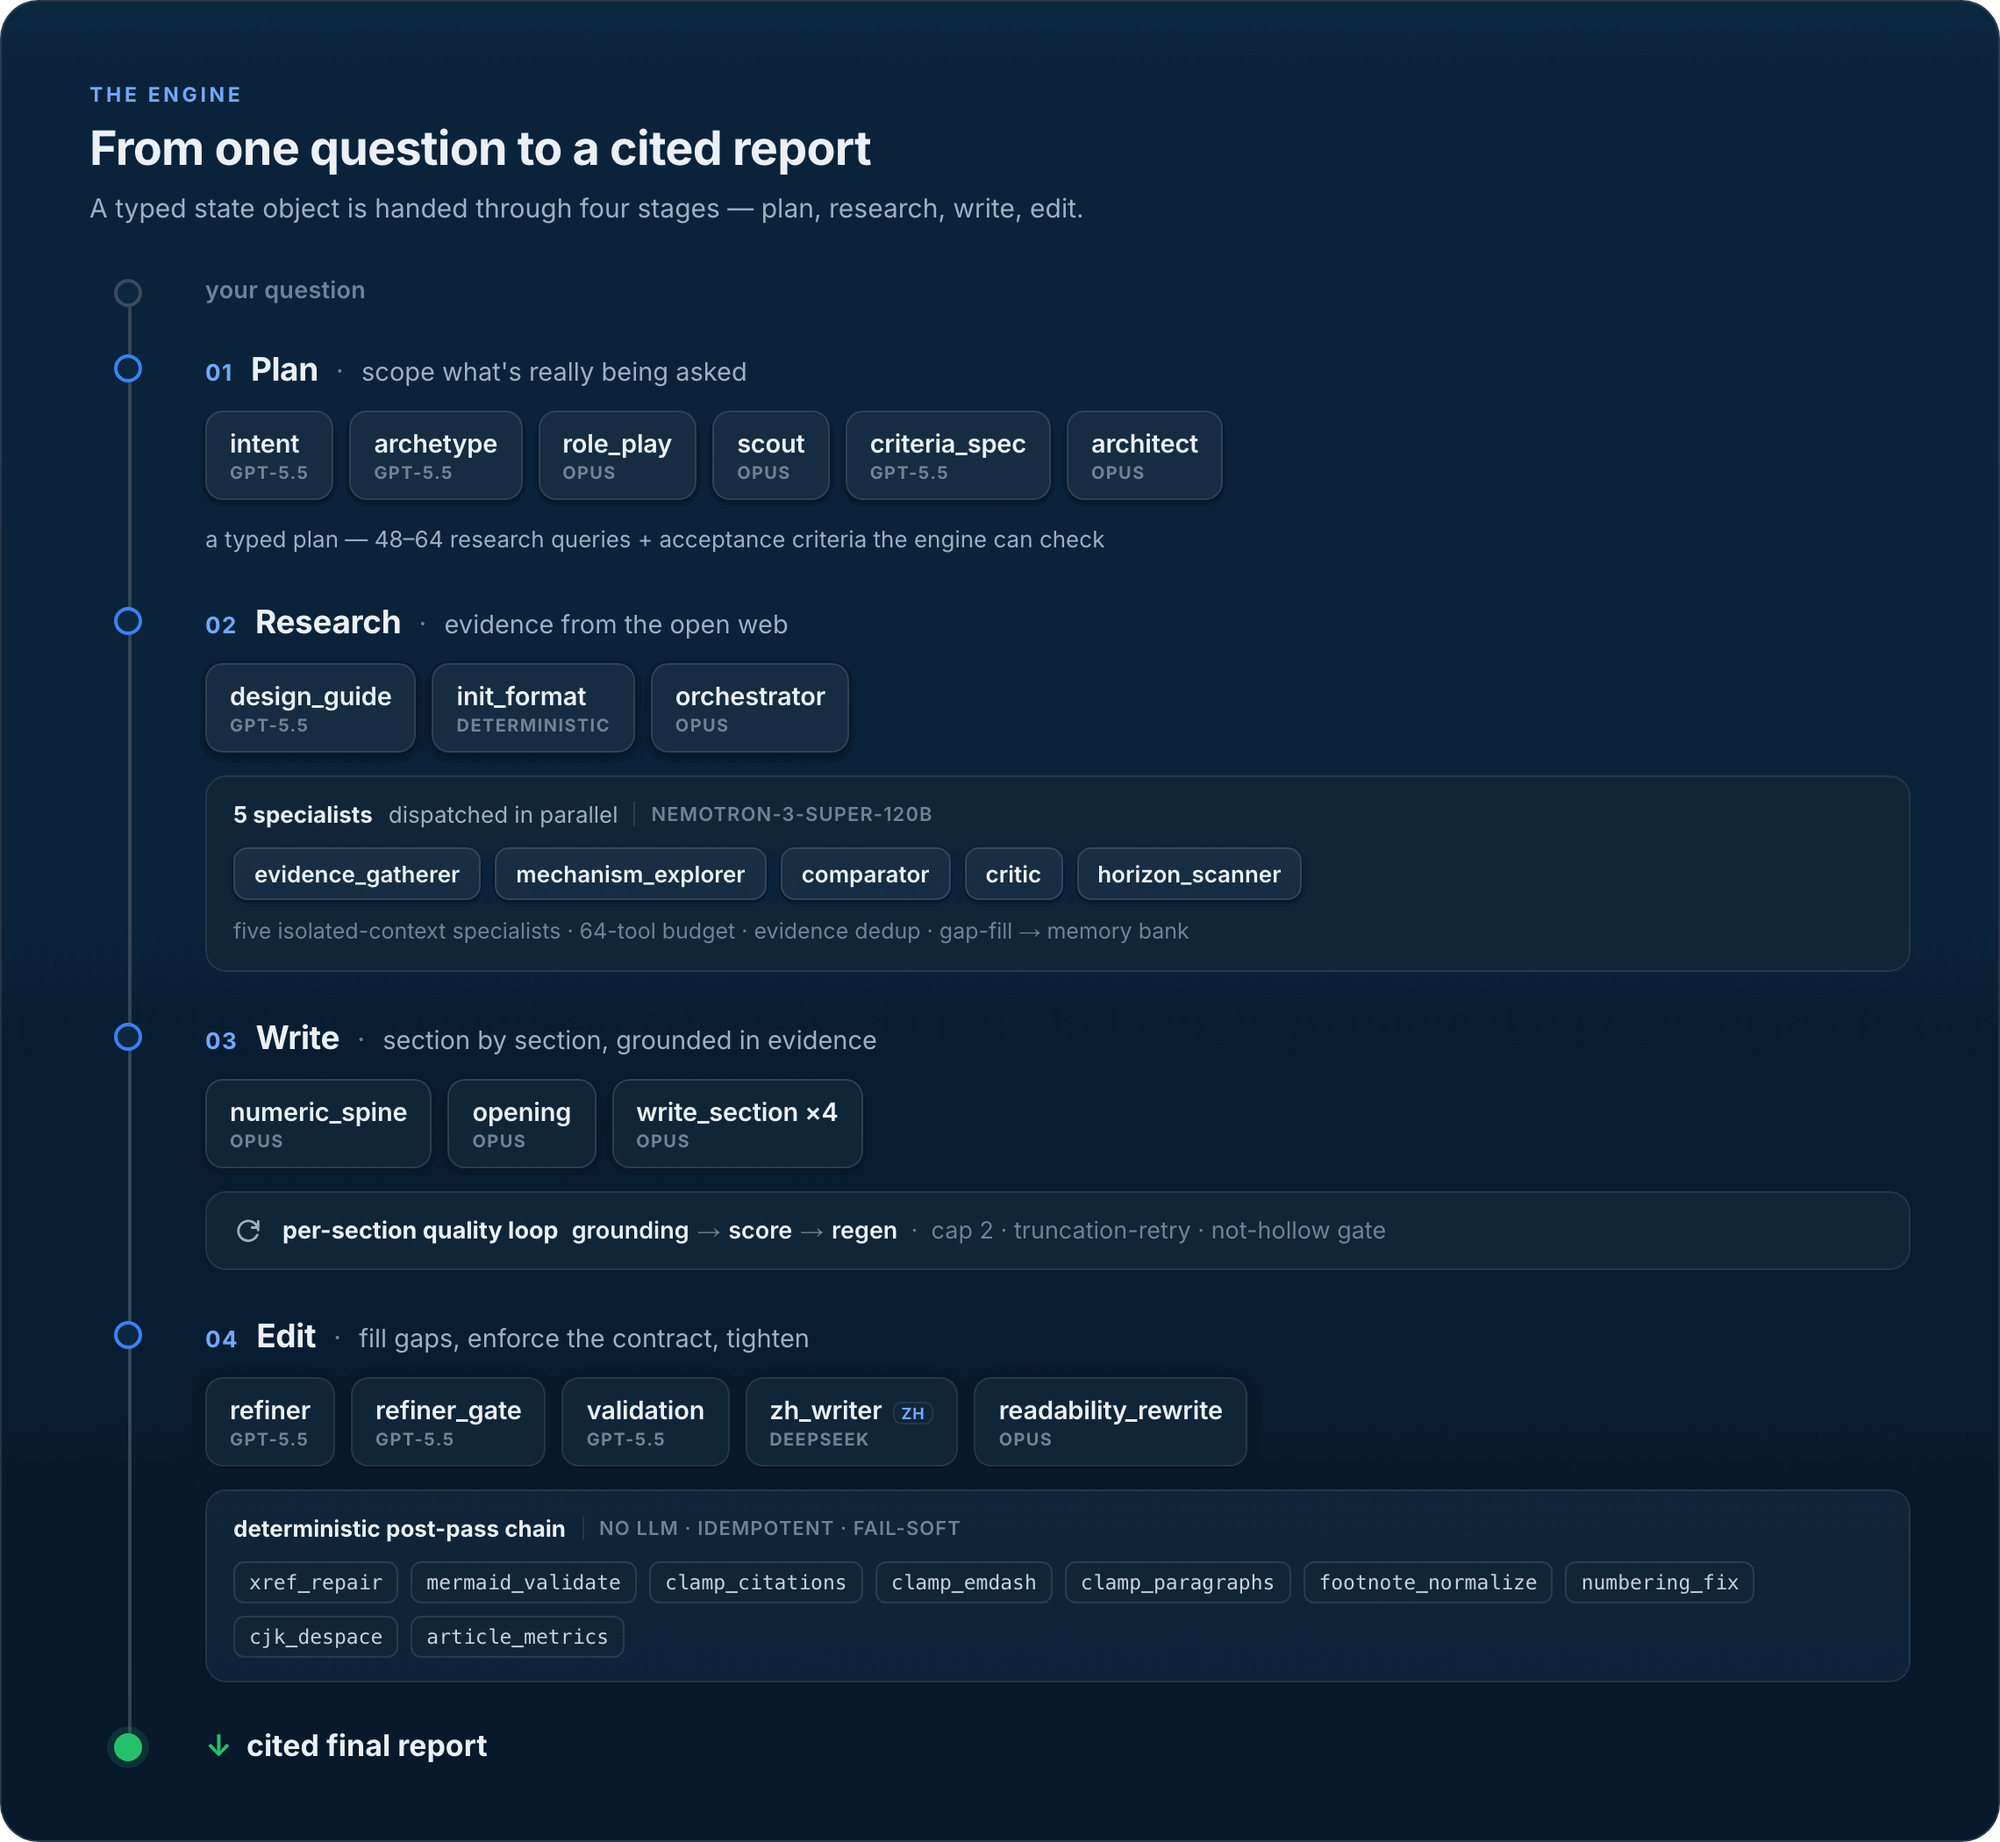
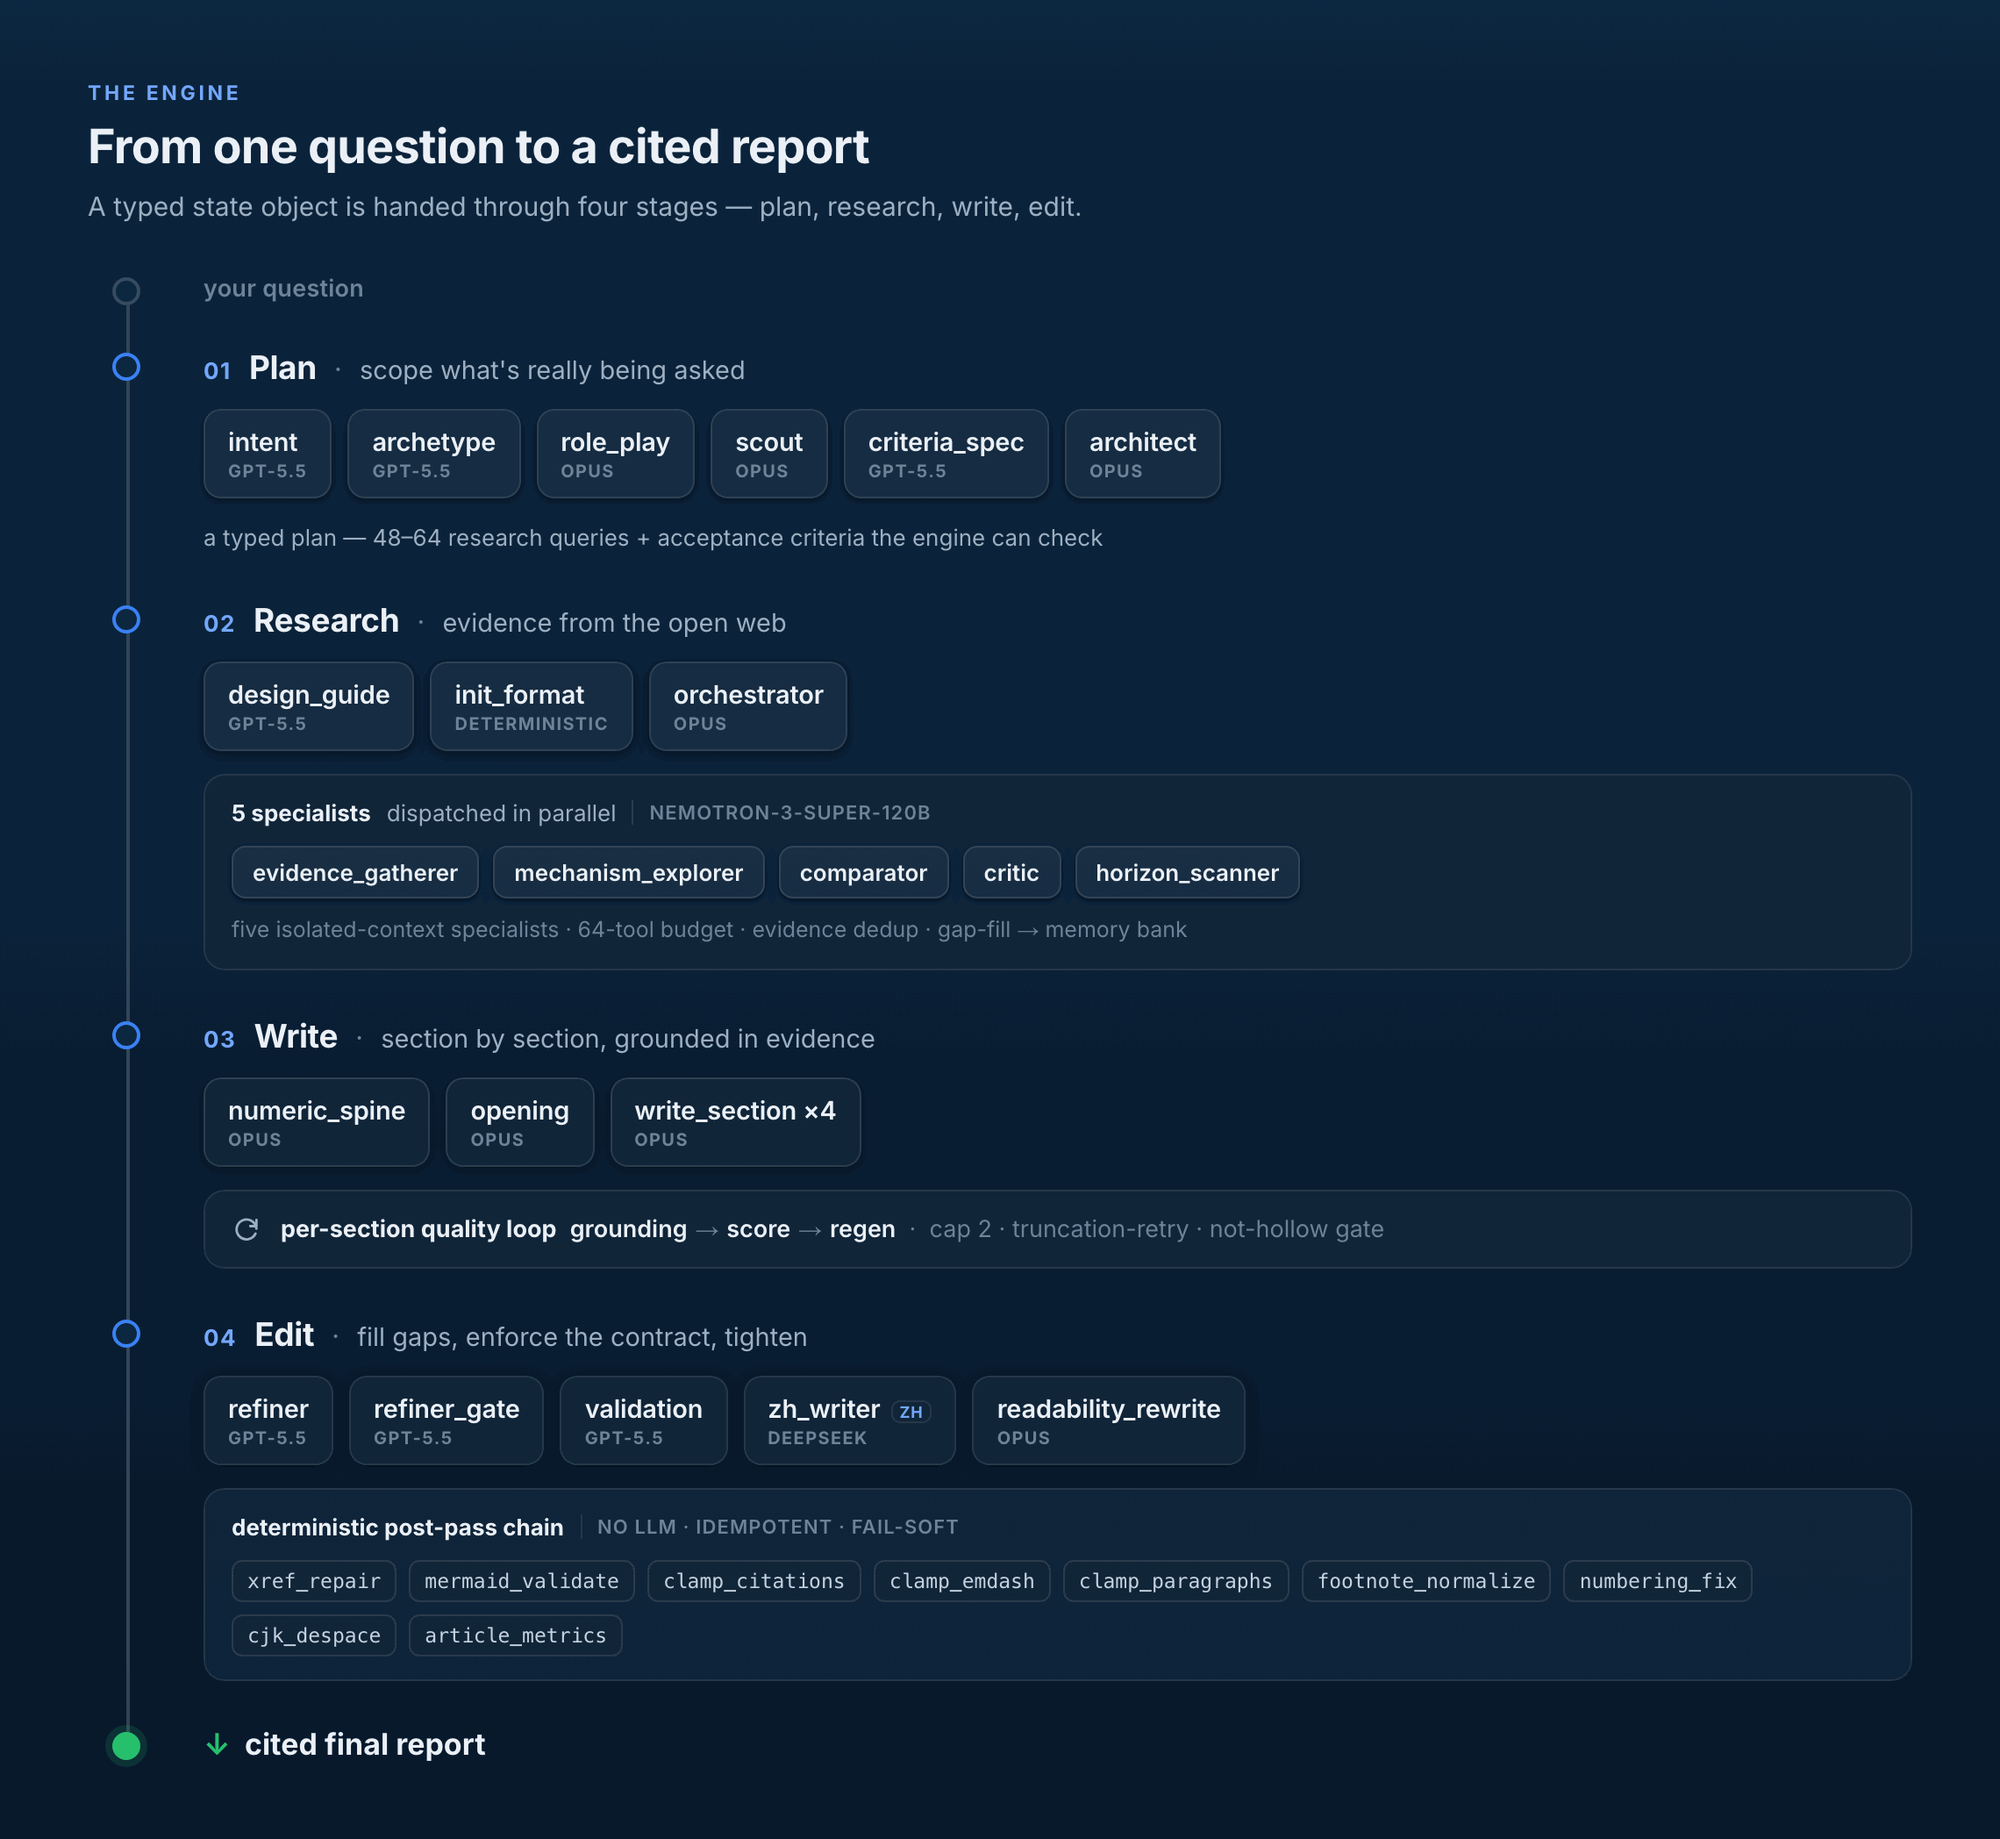
fix(viz): square, full-bleed corners on the architecture diagram
The diagram is screenshotted directly from #diagram, which had border-radius
(+ a border), so the rectangular PNG exposed white in the rounded corners.
Drop the radius and border so the gradient fills the whole frame — square and
full-bleed like the leaderboard chart. Re-rendered both PNGs.

diff --git a/scripts/render_architecture_diagram.py b/scripts/render_architecture_diagram.py
@@ -148,10 +148,12 @@ def _phase(ph):
 STATIC_CSS = """
 *{margin:0;padding:0;box-sizing:border-box}
 html,body{background:transparent}
+/* full-bleed, square corners (screenshotted directly) — like the leaderboard chart.
+   No border-radius: a rounded screenshotted element would expose white in the
+   rectangular PNG's corners. */
 #diagram{width:1140px;font-family:'Inter',-apple-system,Helvetica,Arial,sans-serif;color:var(--text);
-  -webkit-font-smoothing:antialiased;padding:46px 50px 44px;border-radius:22px;
-  background:linear-gradient(180deg,var(--page-top),var(--page-bot));
-  border:1px solid var(--card-bd)}
+  -webkit-font-smoothing:antialiased;padding:46px 50px 44px;
+  background:linear-gradient(180deg,var(--page-top),var(--page-bot))}
 
 .masthead{margin-bottom:26px}
 .kicker{font-size:11.5px;font-weight:700;letter-spacing:.16em;color:var(--accent-soft);text-transform:uppercase}
